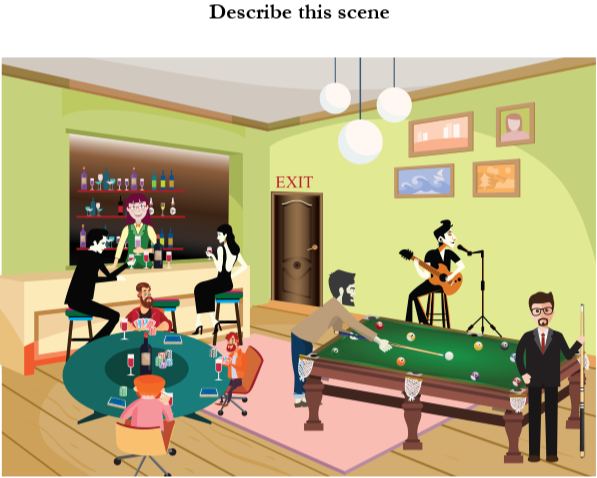
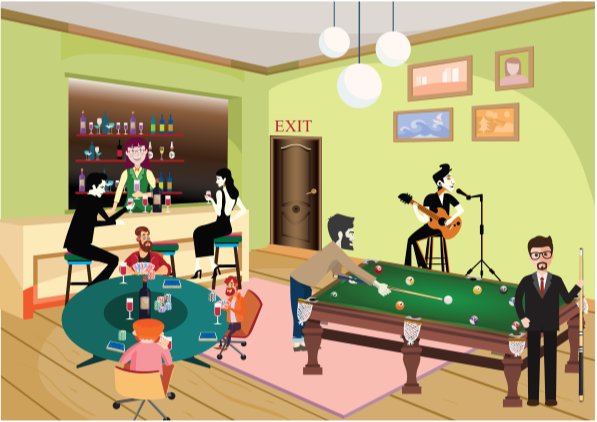
Images size adjusted and speaking-test.html page added.

diff --git a/assets/js/customizing.js b/assets/js/customizing.js
@@ -4,67 +4,67 @@ $(document).ready( function() { 	// Wait until DOM be ready to start.
 
     var sctructure = [
     {qNumber:1, 
-        qName:"Giving Advice",
+        qName:"Give an Advice",
         qPreparationTime: [0],
-        qRecordingTime:30000,
-        qBarrMSGDuration:90,
-        qBarrPrepDuration:30,
+        qRecordingTime:3000,
+        qBarrMSGDuration:9,
+        qBarrPrepDuration:3,
         qImage:["Q1/Q01-1.png","Q1/Q01-2.png","Q1/Q01-3.png"],
         qDescription:"Give me an advice."},
     {qNumber: 2, 
-        qName:"Talking about a personal experience",
-        qPreparationTime: [120000],
-        qRecordingTime:150000,  
-        qBarrMSGDuration:90,
-        qBarrPrepDuration:30,
+        qName:"Talk about a personal experience",
+        qPreparationTime: [12000],
+        qRecordingTime:15000,  
+        qBarrMSGDuration:9,
+        qBarrPrepDuration:3,
         qImage:["Q2/Q02-1.png","Q2/Q02-2.png","Q2/Q02-3.png"],
         qDescription:"Speak about the best day of work you have ever had."},
     {qNumber: 3, 
-        qName:"Describing a scene",
-        qPreparationTime: [240000],
-        qRecordingTime:270000,
-        qBarrMSGDuration:60,
-        qBarrPrepDuration:30,
+        qName:"Describe this scene",
+        qPreparationTime: [24000],
+        qRecordingTime:27000,
+        qBarrMSGDuration:6,
+        qBarrPrepDuration:3,
         qImage:["Q3/Q03-1.png","Q3/Q03-2.png","Q3/Q03-3.png"],
         qDescription:"Speak about the best day of work you have ever had."},
     {qNumber: 4, 
-        qName:"Making Predictions",
-        qPreparationTime: [330000],
-        qRecordingTime:360000,
-        qBarrMSGDuration:60,
-        qBarrPrepDuration:30,
+        qName:"Make Predictions",
+        qPreparationTime: [33000],
+        qRecordingTime:36000,
+        qBarrMSGDuration:6,
+        qBarrPrepDuration:3,
         qImage:["Q4/Q04-1.png","Q4/Q04-2.png","Q4/Q04-3.png"],
         qDescription:"Give me the next lottery numbers."},
     {qNumber: 5, 
-        qName:"Comparing and persuading",
-        qPreparationTime: [420000, 480000],
-        qRecordingTime:540000,
-        qBarrMSGDuration:60,
-        qBarrPrepDuration:60,
+        qName:"Compare and persuade",
+        qPreparationTime: [42000, 48000],
+        qRecordingTime:54000,
+        qBarrMSGDuration:6,
+        qBarrPrepDuration:6,
         qImage:["Q5/Q05-1-A.png","Q5/Q05-2-A.png","Q5/Q05-3-A.png"],
         qDescription:"Try to convince me."},
     {qNumber: 6, 
-        qName:"Dealing with a difficult situation",
-        qPreparationTime: [600000],
-        qRecordingTime:660000,
-        qBarrMSGDuration:60,
-        qBarrPrepDuration:60,
+        qName:"Deal with a difficult situation",
+        qPreparationTime: [60000],
+        qRecordingTime:66000,
+        qBarrMSGDuration:6,
+        qBarrPrepDuration:6,
         qImage:["Q6/Q06-1.png","Q6/Q06-2.png","Q6/Q06-3.png"],
         qDescription:"Try to convince me."},
     {qNumber: 7, 
-        qName:"Expressing opinions",
-        qPreparationTime: [720000],
-        qRecordingTime:750000,
-        qBarrMSGDuration:90,
-        qBarrPrepDuration:30,
+        qName:"Opinion",
+        qPreparationTime: [72000],
+        qRecordingTime:75000,
+        qBarrMSGDuration:9,
+        qBarrPrepDuration:3,
         qImage:["Q7/Q07-1.png","Q7/Q07-2.png","Q7/Q07-3.png"],
         qDescription:"What to you thing about Donald Trump."},
     {qNumber: 8, 
         qName:"Describing an unusual situation",
-        qPreparationTime: [840000],
-        qRecordingTime:870000,
-        qBarrMSGDuration:60,
-        qBarrPrepDuration:30,
+        qPreparationTime: [84000],
+        qRecordingTime:87000,
+        qBarrMSGDuration:6,
+        qBarrPrepDuration:3,
         qImage:["Q8/Q08-1.png","Q8/Q08-2.png","Q8/Q08-3.png"],
         qDescription:"Tell me about your mother-in-law."}
     ];
@@ -73,10 +73,10 @@ $(document).ready( function() { 	// Wait until DOM be ready to start.
     let pos = 0;
     let posImageQ3 = 0;
 
-    function timer( time ) {
+    function timer( time, currText ) {
         var x = setInterval( () => {
             time -= 1;  
-            $("#timer").text("Preparation time: " + time + "s ");
+            $("#timer").text(currText + time + "s ");
             if (time <= 0) {
                 $("#timer").text("");
                 clearInterval(x);
@@ -85,15 +85,16 @@ $(document).ready( function() { 	// Wait until DOM be ready to start.
     }
 
     sctructure.forEach( ( value ) =>  {
-        
+
         /* Set Preparation Time */ 
         setTimeout( () => {
-            timer( value.qBarrPrepDuration );
+            var currText = (value.qNumber != 5) ? "Preparation time: " : "Selection time: ";
+            timer( value.qBarrPrepDuration, currText );
             pos = Math.floor(Math.random() * value.qImage.length);
             $(".msg").text("");
             $(".title").text("Question number " + value.qNumber);
-
-            $("#prgss-01 .progress-bar").css({ animationName:"none", width:"0%"});
+            $(".subject").text(value.qName);
+            $(".progress-bar").css({animationName:"none", width:"0%"});
 
             if (value.qNumber != 4) {
                 $("#image").prop("src", rootDirImage + value.qImage[pos]);
@@ -108,6 +109,7 @@ $(document).ready( function() { 	// Wait until DOM be ready to start.
         /* Question 5 - customized */
         if (value.qNumber === 5) {
             setTimeout( () => {
+                timer( value.qBarrPrepDuration, "Preparation time: " );
                 let image = value.qImage[pos].replace("A","B");
                 $("#image").prop("src", rootDirImage + image);
             }, value.qPreparationTime[1]);
@@ -115,8 +117,8 @@ $(document).ready( function() { 	// Wait until DOM be ready to start.
         
         /* Speaking part */ 
         setTimeout( () => {
-            $(".msg").text("Start speaking now !!!"); 
-            $( "#prgss-01 .progress-bar" ).css({animationName:"barr", width:"100%", animationDuration: value.qBarrMSGDuration + "s"});
+            $(".msg").text("Start speaking now !"); 
+            $( ".progress-bar" ).css({animationName:"barr", width:"100%", animationDuration: value.qBarrMSGDuration + "s"});
         }, value.qRecordingTime);
     });
 

diff --git a/assets/css/customizing.css b/assets/css/customizing.css
@@ -83,3 +83,52 @@ body {
     30%, 80% {opacity: 1;}
  } */
 
+.container {
+  width: 35%;
+}
+
+h4 {
+  color: white;
+  padding-bottom: 1%; 
+  border-radius: 2%;
+  border-radius: 5px;
+}
+
+
+#images {
+  margin: 0;
+  position: fixed;
+  width: 30%;
+  top: 55%;
+  left: 50%;
+  margin-right: -50%;
+  transform: translate(-50%, -50%);
+}
+
+@media screen and (max-width: 800px) {
+  #images {
+    width: 50%;
+  }
+}
+ 
+@media screen and (max-width: 500px) {
+
+  #images {
+    width: 80%;
+  }
+
+  .container {
+    width: 90%;
+  }
+
+  h1 {
+    font-size: 1.8rem;
+    margin-top: 10px;
+  }
+
+  h4,h3 {
+    font-size: 1.2rem;
+  }
+
+
+}
